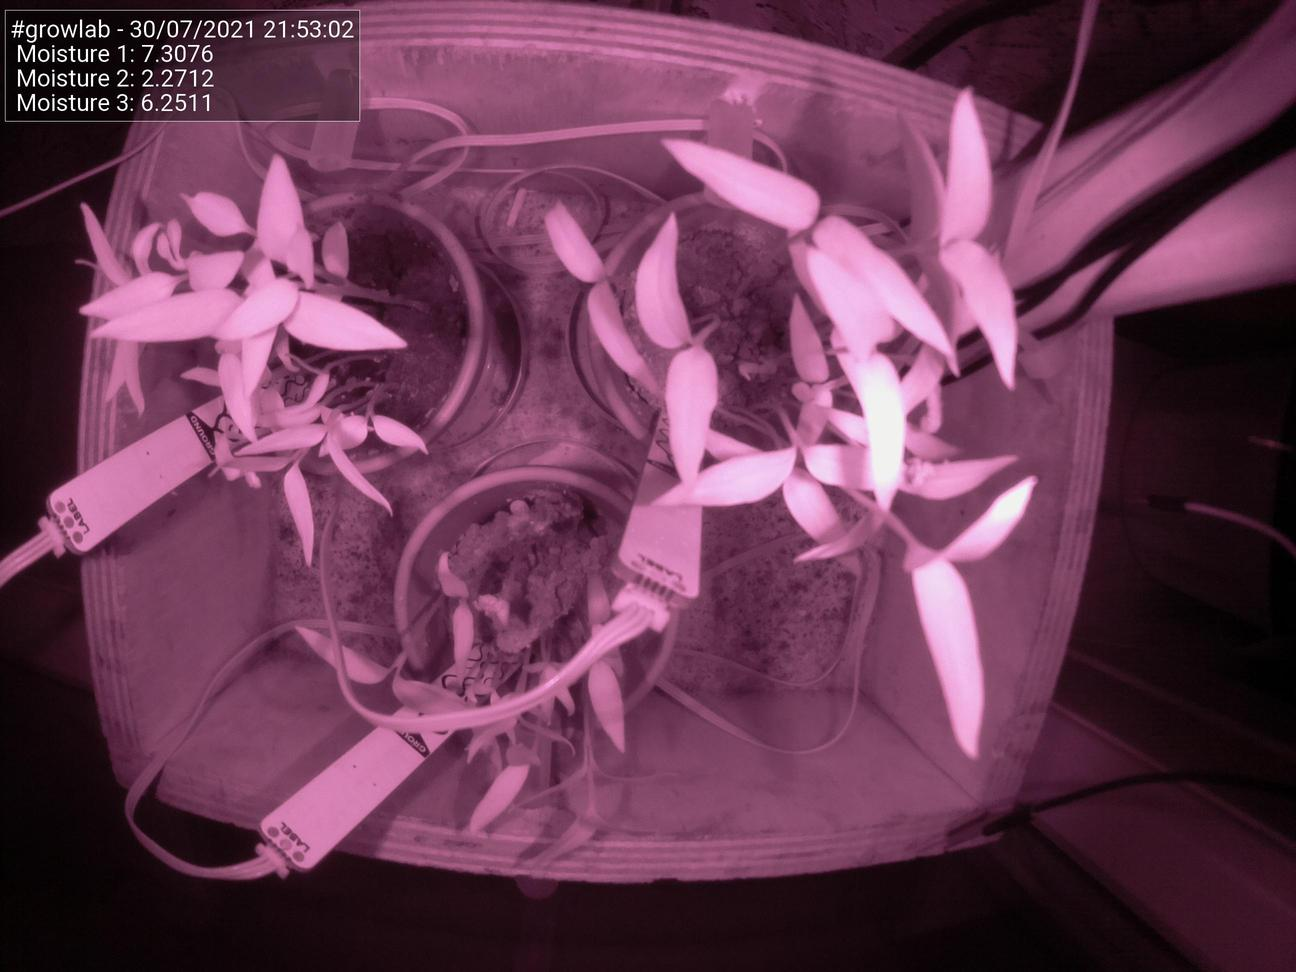
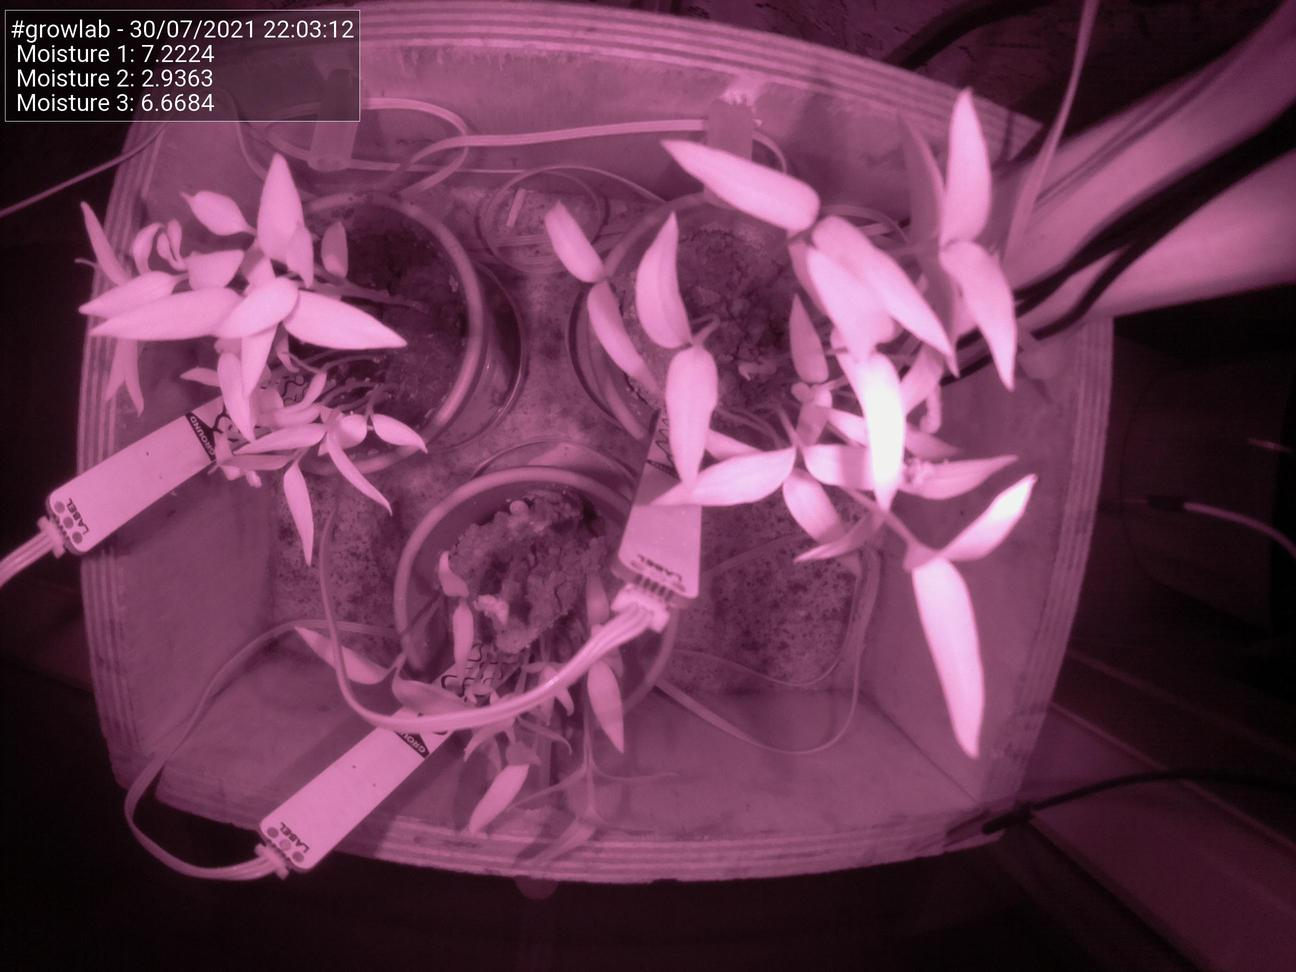
Update images at Fri 30 Jul 22:03:18 BST 2021

diff --git a/docs/index.html b/docs/index.html
@@ -51,25 +51,25 @@
                                 <td>Date</td>
                                 <td>30/07/2021</td>
                                 <td>Time</td>
-                                <td>21:53:02</td>
+                                <td>22:03:12</td>
                             </tr>
                             <tr>
                                 <td>Temperature</td>
                                 <td>N/A</td>
                                 <td>Moisture 1</td>
-                                <td>7.3076</td>
+                                <td>7.2224</td>
                             </tr>
                             <tr>
                                 <td>Humidity</td>
                                 <td>N/A</td>
                                 <td>Moisture 2</td>
-                                <td>2.2712</td>
+                                <td>2.9363</td>
                             </tr>
                             <tr>
                                 <td>Pressure</td>
                                 <td>N/A</td>
                                 <td>Moisture 3</td>
-                                <td>6.2511</td>
+                                <td>6.6684</td>
                             </tr>
                         </tbody>
                     </table>
@@ -77,7 +77,7 @@
 
                 <h5>Latest image</h5>
                 <div style="width: 85%;">
-                            <img class="figure-img img-fluid rounded" src="./preview.jpg?uid=1627678388.1270328">
+                            <img class="figure-img img-fluid rounded" src="./preview.jpg?uid=1627678998.2610576">
                 </div>
             </div>
         </div>
